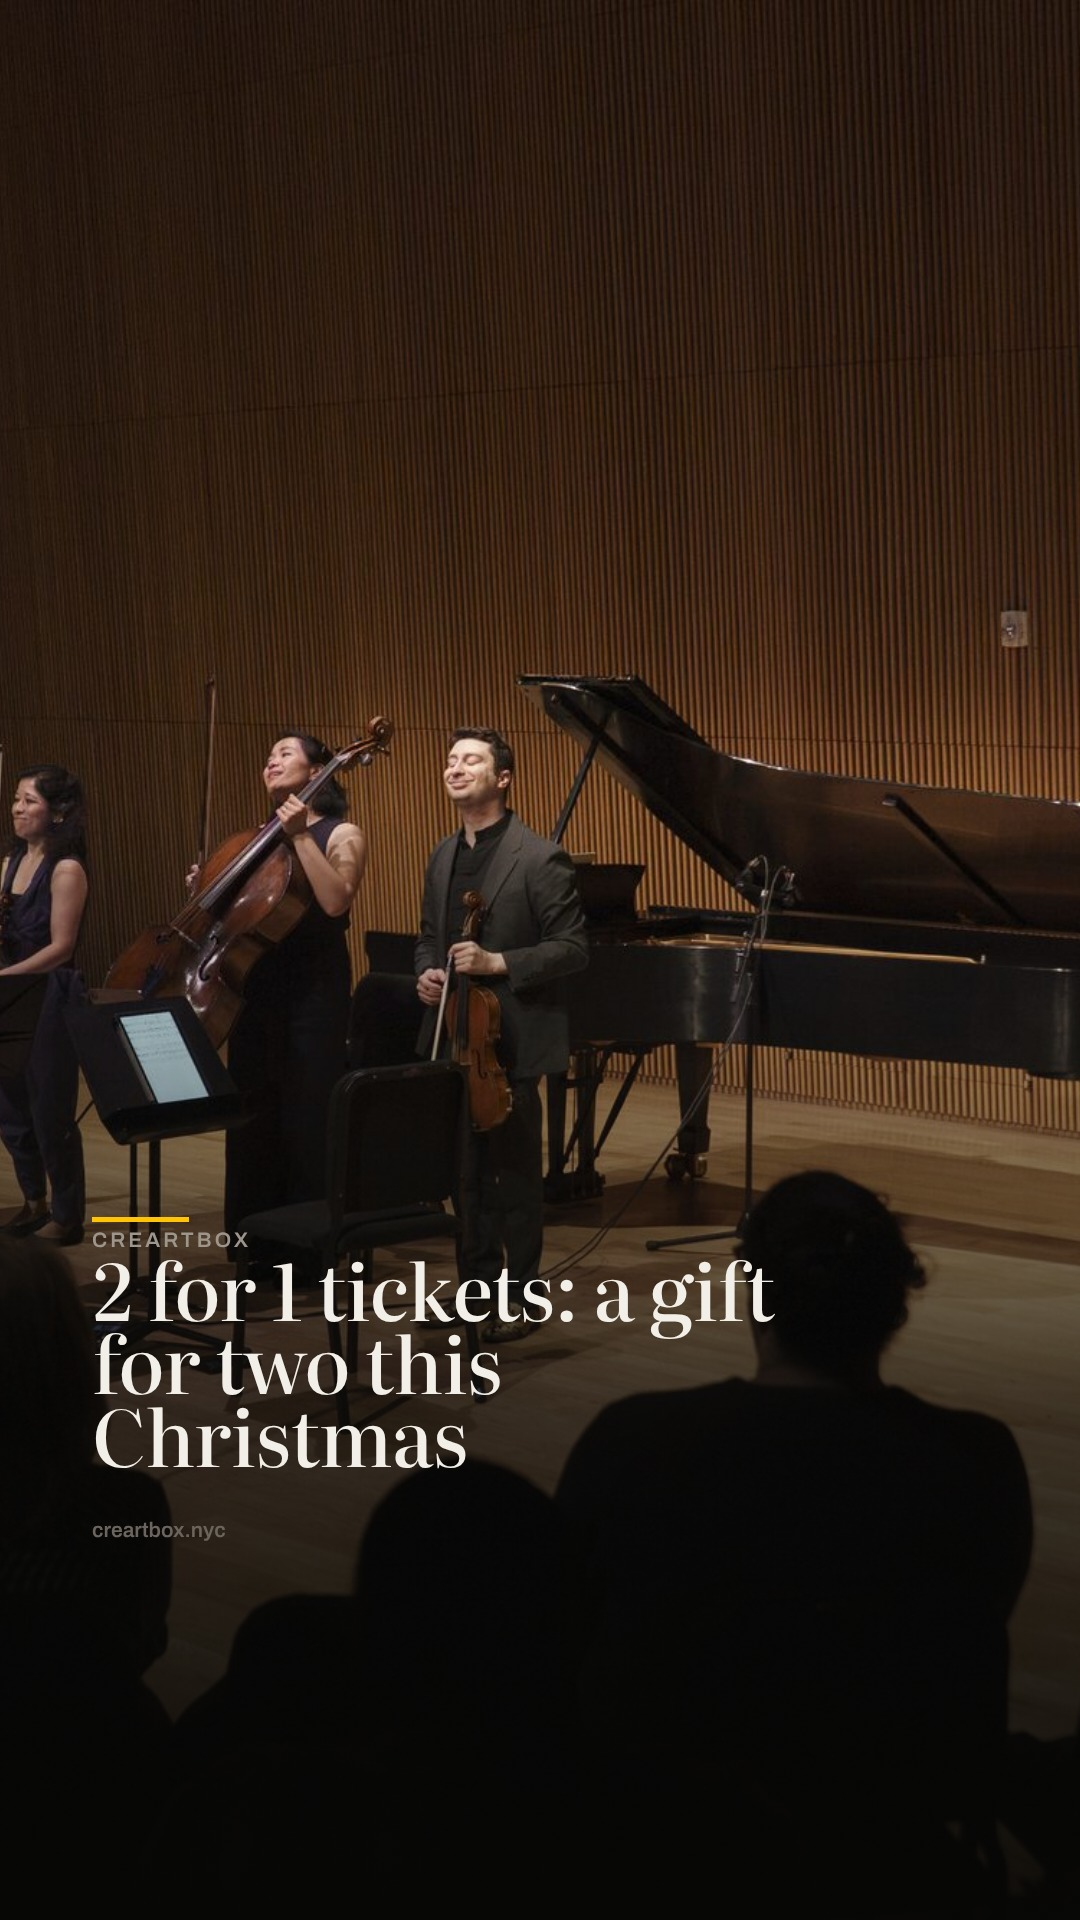
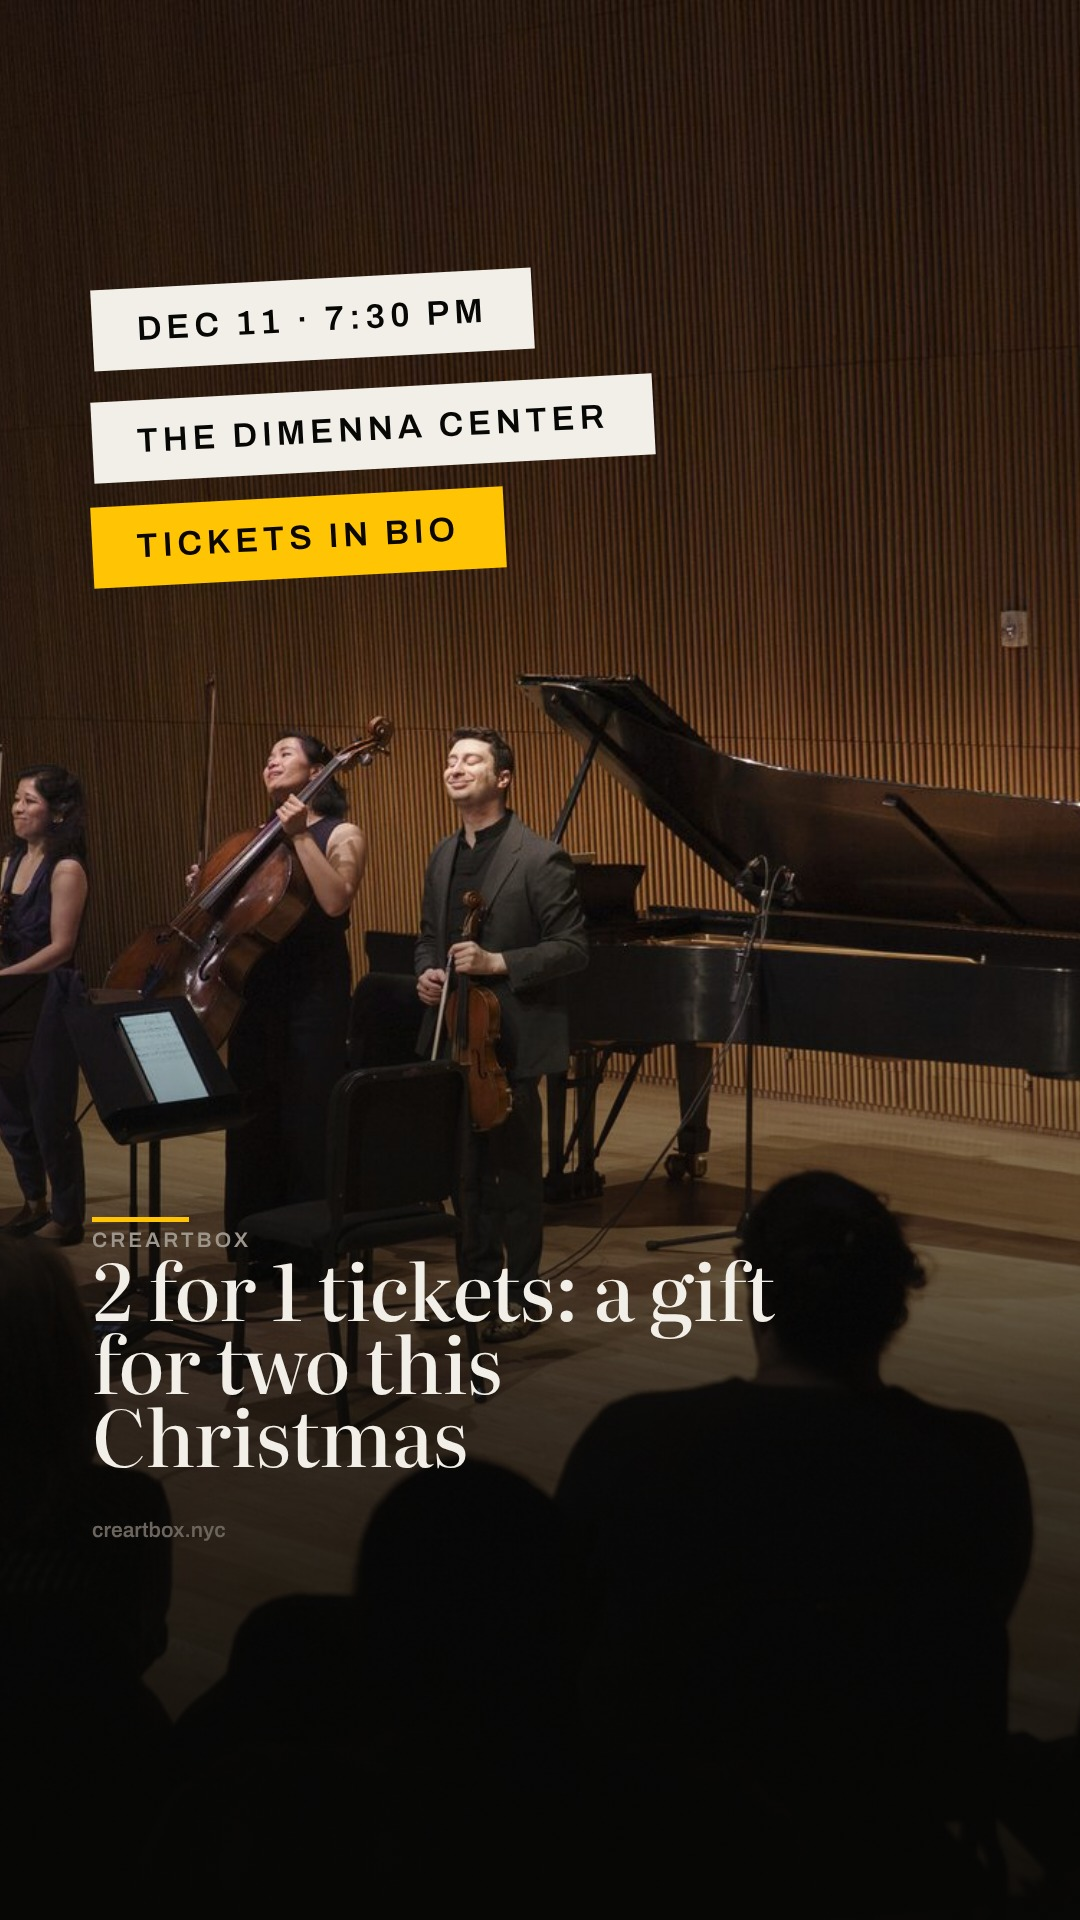
Check: la vista previa enseña la imagen hecha para cada red; historias con tres pegatinas; regalo y Ravel vuelven a preparado
Claude-Session: https://claude.ai/code/session_0135dvaV41U2wFKvXfjD2MLS

Changed region(s): [[0.0611, 0.125, 0.6111, 0.3125]]

diff --git a/app.js b/app.js
@@ -544,6 +544,21 @@ async function pintarInstagram(p) {
   return caja;
 }
 
+/**
+ * La imagen ya hecha para una red, si el post está preparado o en la cola.
+ * Es lo que va a salir, así que manda sobre cualquier otra cosa: antes la
+ * historia y Facebook enseñaban la de Instagram recortada.
+ */
+function imagenHecha(p, red) {
+  const fuentes = [PROGRAMADO.posts || {}, faseDe(p) === 'preparado' ? flujoDe(p).preparado || {} : {}];
+  for (const f of fuentes) {
+    const e = red === 'story' ? f[p.clave + '#historia'] : f[p.clave];
+    const r = e && e.redes.find((x) => x.red === (red === 'story' ? 'ig' : red));
+    if (r && r.imagenes && r.imagenes.length) return r.imagenes[0];
+  }
+  return null;
+}
+
 async function pintarFacebook(p) {
   const caja = document.createElement('div');
   caja.className = 'fb';
@@ -561,8 +576,10 @@ async function pintarFacebook(p) {
       <span>${ICONOS.comentar} Comentar</span>
       <span>${ICONOS.compartir} Compartir</span>
     </div>`;
+  const hechaFb = imagenHecha(p, 'fb');
   caja.insertBefore(
-    p.fotos && p.fotos.length ? fotoSuelta(p.fotos[0], p.fotosEnteras) : await lienzo(p, p.slides[0], 0, 1, 'fb'),
+    hechaFb ? fotoSuelta(hechaFb, true)
+      : p.fotos && p.fotos.length ? fotoSuelta(p.fotos[0], p.fotosEnteras) : await lienzo(p, p.slides[0], 0, 1, 'fb'),
     caja.querySelector('.fb-acciones')
   );
   return caja;
@@ -579,8 +596,10 @@ async function pintarHistoria(p) {
       <small>ahora</small>
     </div>
     <div class="responder"><span>Enviar mensaje</span>${ICONOS.corazon}${ICONOS.enviar}</div>`;
+  const hechaSt = imagenHecha(p, 'story');
   caja.insertBefore(
-    p.fotos && p.fotos.length ? fotoSuelta(p.fotos[0]) : await lienzo(p, p.slides[0], 0, 1, 'story'),
+    hechaSt ? fotoSuelta(hechaSt)
+      : p.fotos && p.fotos.length && !p.fotosEnteras ? fotoSuelta(p.fotos[0]) : await lienzo(p, p.slides[0], 0, 1, 'story'),
     caja.firstElementChild
   );
   return caja;

diff --git a/motor.js b/motor.js
@@ -305,7 +305,7 @@ export function crearMotor(B) {
       const alto = Math.round(W * 0.075);
       const cuerpo = Math.round(alto * 0.42);
       let y = safeTop + Math.round(H * 0.055);
-      for (const peg of post.pegatinas.slice(0, 2)) {
+      for (const peg of post.pegatinas.slice(0, 3)) {
         const texto = String(peg.texto || peg).toUpperCase();
         const senal = peg.senal === true;
         rotulo(ctx, cuerpo, senal ? (B.onAccent || B.ink) : B.ink, Math.round(cuerpo * 0.16));

diff --git a/estilo.css b/estilo.css
@@ -644,3 +644,4 @@ button { background: none; border: none; cursor: pointer; }
 .ig-usuario .ig-y { font-weight: 400; }
 .ig-usuario .ig-colab { font-weight: 600; }
 .ig-cab .ig-av + .ig-usuario { min-width: 0; overflow-wrap: anywhere; }
+.story .foto-suelta { width: 100%; height: 100%; display: block; object-fit: cover; aspect-ratio: auto; }

diff --git a/herramientas/REPASO.md b/herramientas/REPASO.md
@@ -46,6 +46,10 @@ lo que hay entre medias.
 - No repetir la misma imagen en posts seguidos (el cartel de Winterlight ya
   salió el 9 de noviembre).
 - Cada idea lleva `porque`.
+- Las historias no tienen texto: siempre con `pegatinas` (hasta 3), por
+  ejemplo fecha y hora, lugar y «Tickets in bio» en ámbar (`senal: true`).
+  Si el fondo es claro (una partitura, papel), `estilos: { story: 'duo' }`.
+- Revisar las imágenes de las tres redes, no solo la de Instagram.
 
 ## Fases (flujo.json → posts[clave].fase)
 
